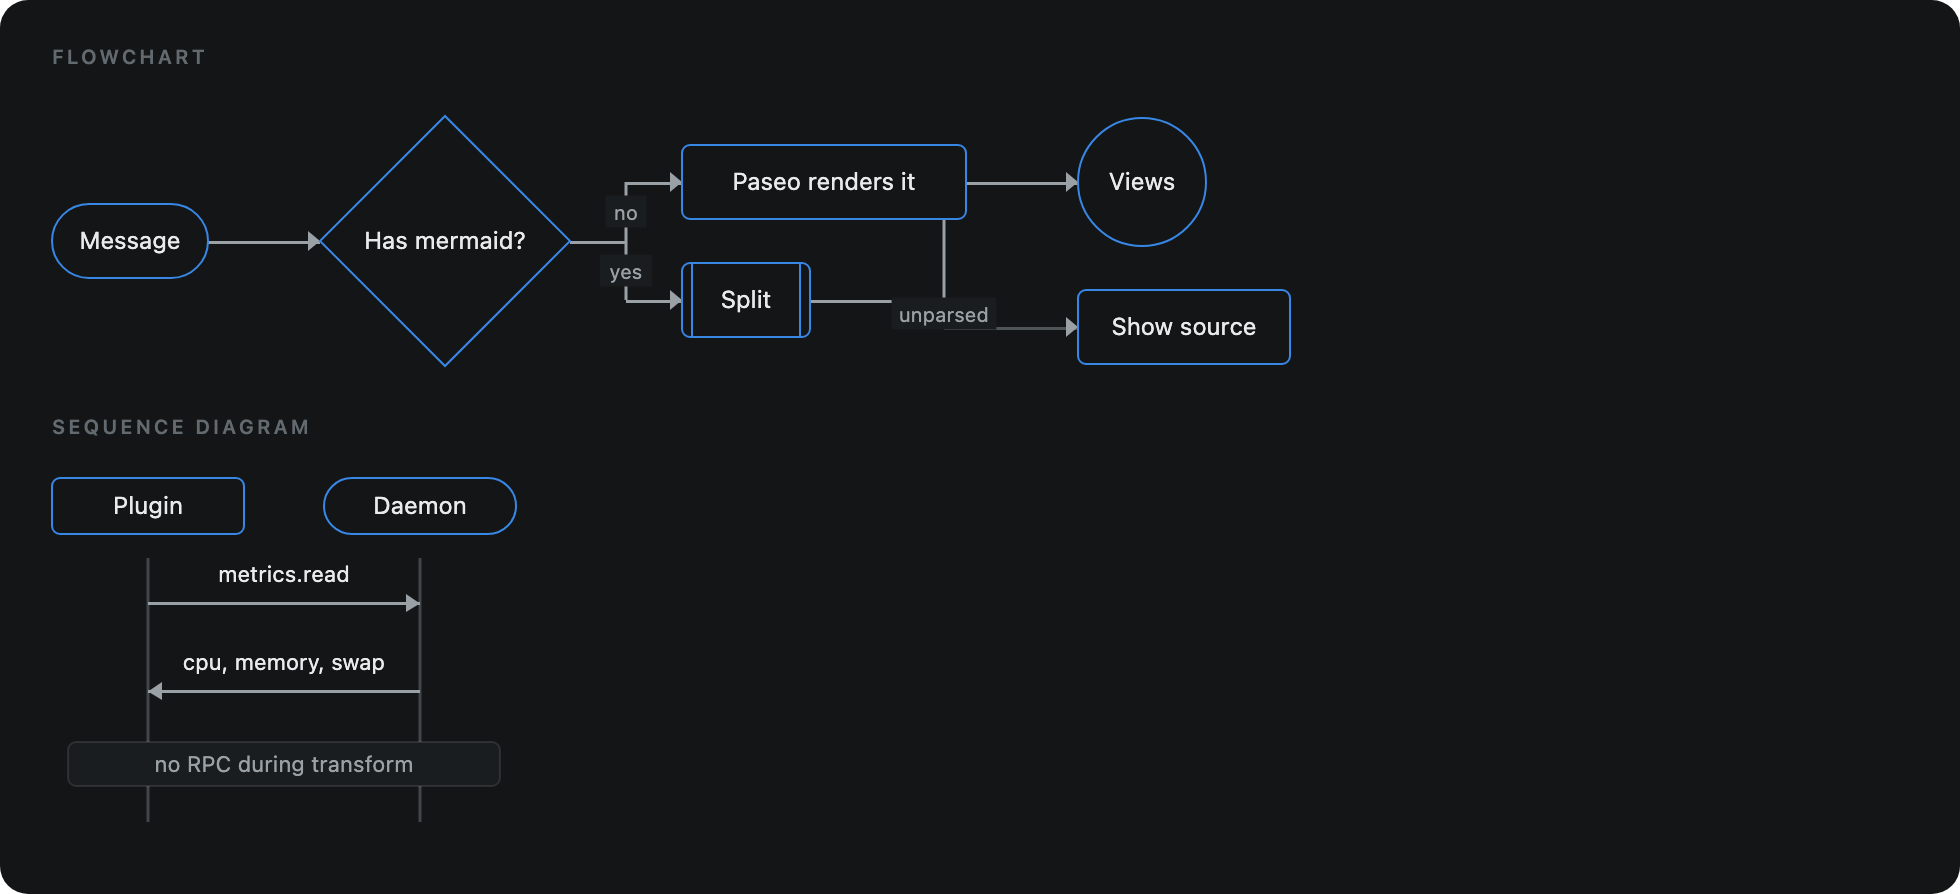
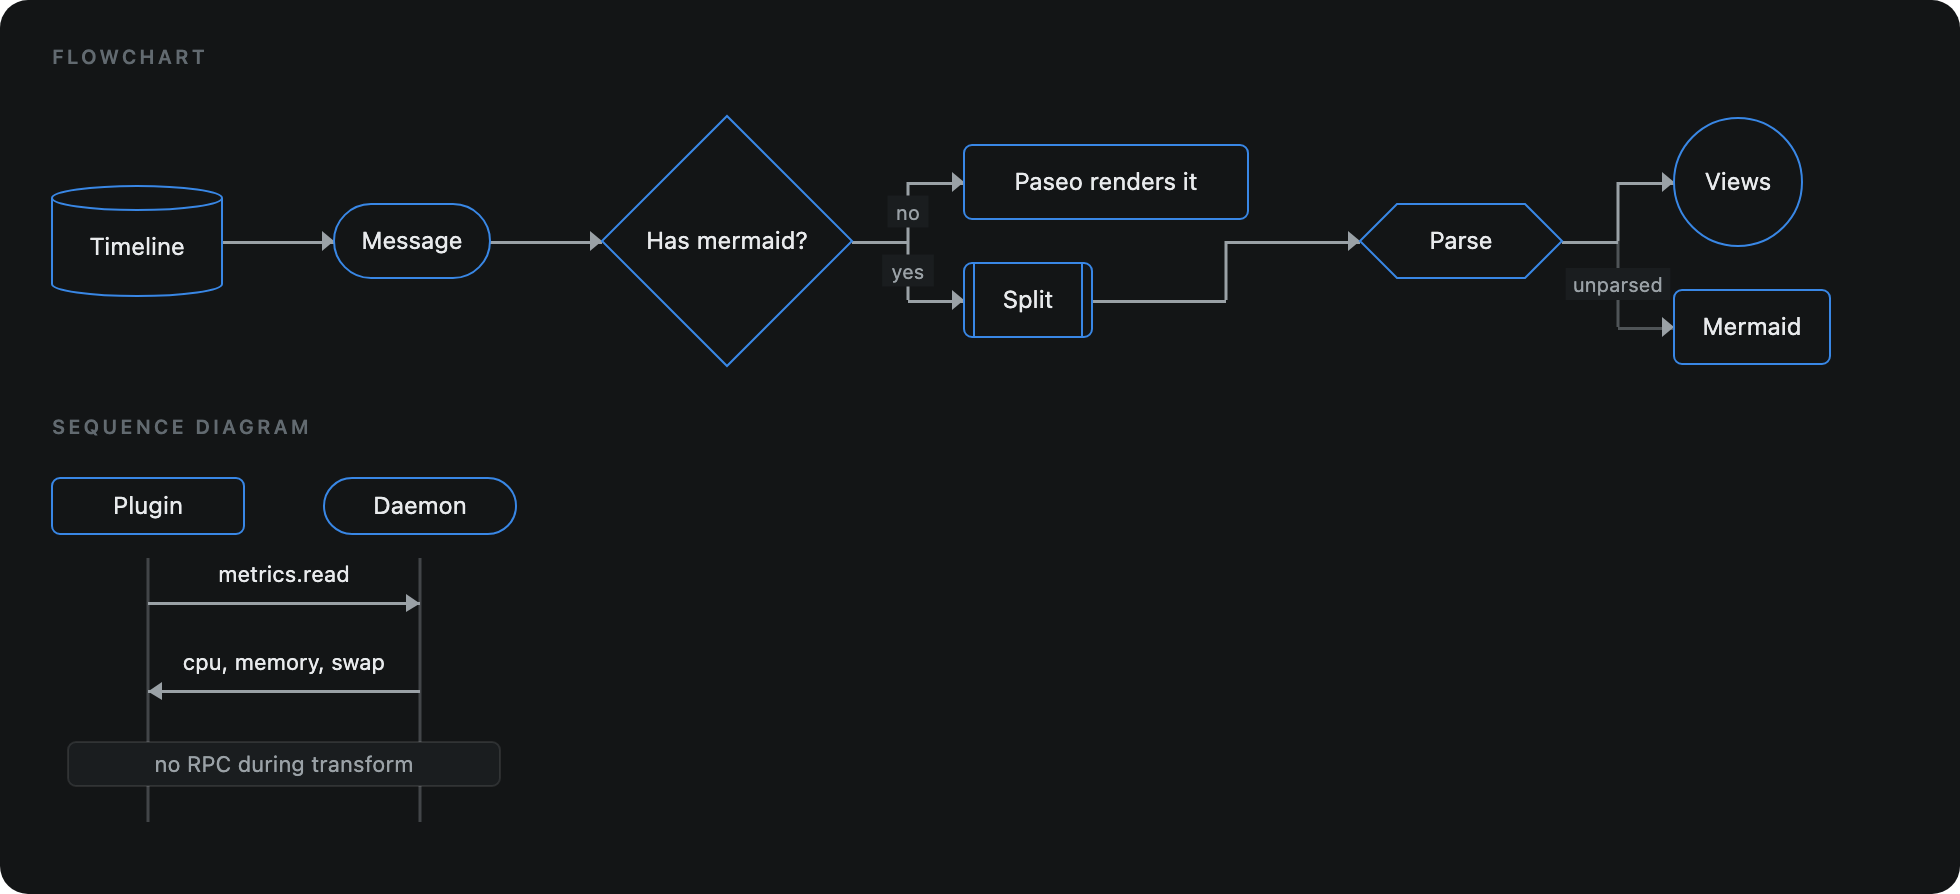
Draw the new shapes

diff --git a/client/diagram.tsx b/client/diagram.tsx
@@ -1,12 +1,15 @@
 import type { PluginTheme } from "@getpaseo/plugin";
 import React from "react";
-import { StyleSheet, Text, View } from "react-native";
+import { StyleSheet, Text, View, type StyleProp, type ViewStyle } from "react-native";
 import { parseFlowchart, type Flowchart, type NodeShape } from "../shared/flowchart";
 import {
+  CYLINDER_CAP,
+  DOUBLE_RING_GAP,
   layoutFlowchart,
   layoutSequence,
   SELF_LABEL_GAP,
   SELF_LOOP_WIDTH,
+  slantFor,
   type FlowLayout,
   type LaidOutEdge,
   type LaidOutNode,
@@ -143,6 +146,17 @@ function NodeView({ node, theme }: { node: LaidOutNode; theme: PluginTheme }) {
     );
   }
 
+  if (BUILT.has(node.shape)) {
+    return (
+      <View style={common}>
+        <Outline node={node} theme={theme} />
+        <View style={[{ position: "absolute", alignItems: "center", justifyContent: "center", paddingHorizontal: 8 }, labelArea(node)]}>
+          <Text style={{ color: theme.colors.foreground, fontSize: 12, textAlign: "center" }}>{node.label}</Text>
+        </View>
+      </View>
+    );
+  }
+
   return (
     <View
       style={[
@@ -173,6 +187,244 @@ function NodeView({ node, theme }: { node: LaidOutNode; theme: PluginTheme }) {
         />
       ) : null}
       <Text style={{ color: theme.colors.foreground, fontSize: 12, textAlign: "center" }}>{node.label}</Text>
+    </View>
+  );
+}
+
+/**
+ * Shapes no single box can draw. Each is built from a few Views behind an upright
+ * label, so no text is ever rotated or sheared. Their outlines reach the box
+ * where the layout routes edges to it: the top and bottom middle, and at
+ * mid-height either the box side or, for slanted sides, `sideInset` in from it.
+ */
+const BUILT: ReadonlySet<NodeShape> = new Set([
+  "cylinder",
+  "hexagon",
+  "lean-right",
+  "lean-left",
+  "trapezoid",
+  "trapezoid-top",
+  "double-circle",
+]);
+
+interface Box {
+  left: number;
+  top: number;
+  width: number;
+  height: number;
+}
+
+/** The part of a built shape's box that its outline leaves clear for the label. */
+function labelArea(node: LaidOutNode): Box {
+  const { width, height } = node;
+  switch (node.shape) {
+    case "cylinder":
+      // Below the lid's two arcs, above the base's one.
+      return { left: 0, top: 2 * CYLINDER_CAP, width, height: height - 3 * CYLINDER_CAP };
+    case "hexagon":
+      return { left: height / 2, top: 0, width: width - height, height };
+    case "lean-right":
+    case "lean-left": {
+      const slant = slantFor(height);
+      return { left: slant / 2, top: 0, width: width - slant, height };
+    }
+    case "trapezoid":
+    case "trapezoid-top": {
+      // The narrow side bounds the label.
+      const slant = slantFor(height);
+      return { left: slant, top: 0, width: width - 2 * slant, height };
+    }
+    case "double-circle":
+      return {
+        left: DOUBLE_RING_GAP,
+        top: DOUBLE_RING_GAP,
+        width: width - 2 * DOUBLE_RING_GAP,
+        height: height - 2 * DOUBLE_RING_GAP,
+      };
+    default:
+      return { left: 0, top: 0, width, height };
+  }
+}
+
+function Outline({ node, theme }: { node: LaidOutNode; theme: PluginTheme }) {
+  const { width, height } = node;
+  const accent = theme.colors.accent;
+  const fill = theme.colors.surface0;
+  const outline: ViewStyle = { borderWidth: 1, borderColor: accent, backgroundColor: fill };
+  // A plain filled View: a line, or an area of fill with no border of its own.
+  const solid = (left: number, top: number, w: number, h: number, color: string) => (
+    <View style={{ position: "absolute", left, top, width: w, height: h, backgroundColor: color }} />
+  );
+
+  // Where a View's edge falls across a line of the outline, that View must not
+  // paint fill under the line: at a fractional pixel, as under the viewer's
+  // scale, the browser blends the fill into the line along that edge and the
+  // outline shows a light notch. So at every join lines meet lines and fill
+  // meets fill.
+  switch (node.shape) {
+    case "cylinder": {
+      // The base ellipse first, the body over its upper half so only the lower arc
+      // shows, the whole lid last. The body's sides start and end on the ellipses'
+      // centre lines, where the ellipses are widest and run straight down; its
+      // fill stops at the sides instead of running under them.
+      const ellipse = (top: number) => (
+        <View
+          style={[outline, { position: "absolute", left: 0, top, width, height: 2 * CYLINDER_CAP, borderRadius: "50%" }]}
+        />
+      );
+      const body = height - 2 * CYLINDER_CAP;
+      return (
+        <>
+          {ellipse(height - 2 * CYLINDER_CAP)}
+          {solid(1, CYLINDER_CAP, width - 2, body, fill)}
+          {solid(0, CYLINDER_CAP, 1, body, accent)}
+          {solid(width - 1, CYLINDER_CAP, 1, body, accent)}
+          {ellipse(0)}
+        </>
+      );
+    }
+    case "hexagon": {
+      // Two diamonds give the points, as in the diamond shape: a square of side
+      // height / root two, turned 45 degrees, spans the height and reaches the box
+      // side with its corner. A band between their centres covers their inner
+      // halves and draws the flat top and bottom.
+      const side = height / Math.SQRT2;
+      const point = (centre: number) => (
+        <View
+          style={[
+            outline,
+            {
+              position: "absolute",
+              left: centre - side / 2,
+              top: (height - side) / 2,
+              width: side,
+              height: side,
+              transform: [{ rotate: "45deg" }],
+            },
+          ]}
+        />
+      );
+      return (
+        <>
+          {point(height / 2)}
+          {point(width - height / 2)}
+          <View
+            style={{
+              position: "absolute",
+              left: height / 2,
+              top: 0,
+              width: width - height,
+              height,
+              borderTopWidth: 1,
+              borderBottomWidth: 1,
+              borderColor: accent,
+              backgroundColor: fill,
+            }}
+          />
+        </>
+      );
+    }
+    case "lean-right":
+    case "lean-left":
+      return <Parallelogram node={node} sides={node.shape === "lean-right" ? "/" : "\\"} left={0} outline={outline} />;
+    case "trapezoid":
+    case "trapezoid-top": {
+      // The left half of one parallelogram and the right half of the other, each
+      // clipped to its half of the box and overlapping a pixel each way around
+      // the middle, where both hold the same top and bottom lines and the same
+      // fill. The clip edges cut through those lines, so the fill sits in a child
+      // inside the borders rather than under them. `[/ \]` is wide at the bottom.
+      const wideAtBottom = node.shape === "trapezoid";
+      const half = width / 2;
+      const clip: ViewStyle = { position: "absolute", top: 0, width: half + 1, height, overflow: "hidden" };
+      const lines: ViewStyle = { borderColor: accent, borderTopWidth: 1, borderBottomWidth: 1 };
+      const inside = <View style={{ position: "absolute", left: 0, right: 0, top: 0, bottom: 0, backgroundColor: fill }} />;
+      return (
+        <>
+          <View style={[clip, { left: 0 }]}>
+            <Parallelogram node={node} sides={wideAtBottom ? "/" : "\\"} left={0} outline={[lines, { borderLeftWidth: 1 }]}>
+              {inside}
+            </Parallelogram>
+          </View>
+          <View style={[clip, { left: half - 1 }]}>
+            <Parallelogram
+              node={node}
+              sides={wideAtBottom ? "\\" : "/"}
+              left={half - 1}
+              outline={[lines, { borderRightWidth: 1 }]}
+            >
+              {inside}
+            </Parallelogram>
+          </View>
+        </>
+      );
+    }
+    case "double-circle": {
+      const inner = width - 2 * DOUBLE_RING_GAP;
+      return (
+        <>
+          <View style={[outline, { position: "absolute", left: 0, top: 0, width, height, borderRadius: width / 2 }]} />
+          <View
+            style={{
+              position: "absolute",
+              left: DOUBLE_RING_GAP,
+              top: DOUBLE_RING_GAP,
+              width: inner,
+              height: inner,
+              borderRadius: inner / 2,
+              borderWidth: 1,
+              borderColor: accent,
+            }}
+          />
+        </>
+      );
+    }
+    default:
+      return null;
+  }
+}
+
+/**
+ * A View one slant narrower than the box, centred in it and sheared about its
+ * middle: the top and bottom edges move half the slant in opposite directions,
+ * so the far corners reach both sides of the box and the sides run `/` or `\`.
+ * The slant is the layout's own, which is what puts the side where a horizontal
+ * edge stops. `left` is where the box starts inside a clipping parent.
+ *
+ * React Native on Android applies no skew and draws this as the upright View
+ * between the two mid-height points, still closed and still met by the edges.
+ */
+function Parallelogram({
+  node,
+  sides,
+  left,
+  outline,
+  children,
+}: {
+  node: LaidOutNode;
+  sides: "/" | "\\";
+  left: number;
+  outline: StyleProp<ViewStyle>;
+  children?: React.ReactNode;
+}) {
+  const slant = slantFor(node.height);
+  const angle = (Math.atan(slant / node.height) * 180) / Math.PI;
+  return (
+    <View
+      style={[
+        outline,
+        {
+          position: "absolute",
+          left: slant / 2 - left,
+          top: 0,
+          width: node.width - slant,
+          height: node.height,
+          // A positive skew moves the bottom edge right, which runs the sides `\`.
+          transform: [{ skewX: `${sides === "/" ? -angle : angle}deg` }],
+        },
+      ]}
+    >
+      {children}
     </View>
   );
 }

diff --git a/scripts/preview.ts b/scripts/preview.ts
@@ -13,7 +13,15 @@
 import { writeFileSync } from "node:fs";
 import { URL } from "node:url";
 import { parseFlowchart } from "../shared/flowchart";
-import { layoutFlowchart, layoutSequence, type LaidOutEdge, type LaidOutNode } from "../shared/layout";
+import {
+  CYLINDER_CAP,
+  DOUBLE_RING_GAP,
+  layoutFlowchart,
+  layoutSequence,
+  slantFor,
+  type LaidOutEdge,
+  type LaidOutNode,
+} from "../shared/layout";
 import { parseSequence } from "../shared/sequence";
 
 const INK = {
@@ -29,11 +37,13 @@ const INK = {
 };
 
 const FLOW = `flowchart LR
-    Msg([Message]) --> Check{Has mermaid?}
+    Log[(Timeline)] --> Msg([Message])
+    Msg --> Check{Has mermaid?}
     Check -->|no| Paseo[Paseo renders it]
     Check -->|yes| Split[[Split]]
-    Split --> Draw((Views))
-    Split -.->|unparsed| Raw[Show source]`;
+    Split --> Parse{{Parse}}
+    Parse --> Draw((Views))
+    Parse -.->|unparsed| Raw[Mermaid]`;
 
 const SEQ = `sequenceDiagram
     participant P as Plugin
@@ -72,6 +82,27 @@ function node(item: LaidOutNode): string {
     const cx = x + w / 2;
     const cy = y + h / 2;
     return `<rect x="${cx - side / 2}" y="${cy - side / 2}" width="${side}" height="${side}" ${fill} transform="rotate(45 ${cx} ${cy})"/>`;
+  }
+  const polygon = (points: [number, number][]) => `<polygon points="${points.map(([px, py]) => `${x + px},${y + py}`).join(" ")}" ${fill}/>`;
+  const s = slantFor(h);
+  switch (item.shape) {
+    case "cylinder": {
+      // Sides and the base arc as one open path, then the whole lid over its top.
+      const c = CYLINDER_CAP;
+      return `<path d="M ${x},${y + c} V ${y + h - c} A ${w / 2},${c} 0 0 0 ${x + w},${y + h - c} V ${y + c}" ${fill}/><ellipse cx="${x + w / 2}" cy="${y + c}" rx="${w / 2}" ry="${c}" ${fill}/>`;
+    }
+    case "hexagon":
+      return polygon([[0, h / 2], [h / 2, 0], [w - h / 2, 0], [w, h / 2], [w - h / 2, h], [h / 2, h]]);
+    case "lean-right":
+      return polygon([[s, 0], [w, 0], [w - s, h], [0, h]]);
+    case "lean-left":
+      return polygon([[0, 0], [w - s, 0], [w, h], [s, h]]);
+    case "trapezoid":
+      return polygon([[s, 0], [w - s, 0], [w, h], [0, h]]);
+    case "trapezoid-top":
+      return polygon([[0, 0], [w, 0], [w - s, h], [s, h]]);
+    case "double-circle":
+      return `<circle cx="${x + w / 2}" cy="${y + h / 2}" r="${w / 2}" ${fill}/><circle cx="${x + w / 2}" cy="${y + h / 2}" r="${w / 2 - DOUBLE_RING_GAP}" fill="none" stroke="${INK.accent}"/>`;
   }
   const r = item.shape === "circle" ? w / 2 : item.shape === "stadium" ? h / 2 : item.shape === "round" ? 12 : 4;
   const box = `<rect x="${x}" y="${y}" width="${w}" height="${h}" rx="${r}" ${fill}/>`;
@@ -128,7 +159,9 @@ parts.push(
 
 parts.push(`<g transform="translate(${contentX}, ${flowY})">${flow.edges.map(edge).join("")}${flow.nodes.map((n) => {
   const lines = n.label.split("\n");
-  const startY = n.y + n.height / 2 - ((lines.length - 1) * 15) / 2 + 4;
+  // A cylinder's label sits below the lid, half a cap lower than the box centre.
+  const centreY = n.y + n.height / 2 + (n.shape === "cylinder" ? CYLINDER_CAP / 2 : 0);
+  const startY = centreY - ((lines.length - 1) * 15) / 2 + 4;
   return node(n) + lines.map((line, i) => text(n.x + n.width / 2, startY + i * 15, line, INK.text, 12, "400", "middle")).join("");
 }).join("")}</g>`);
 
